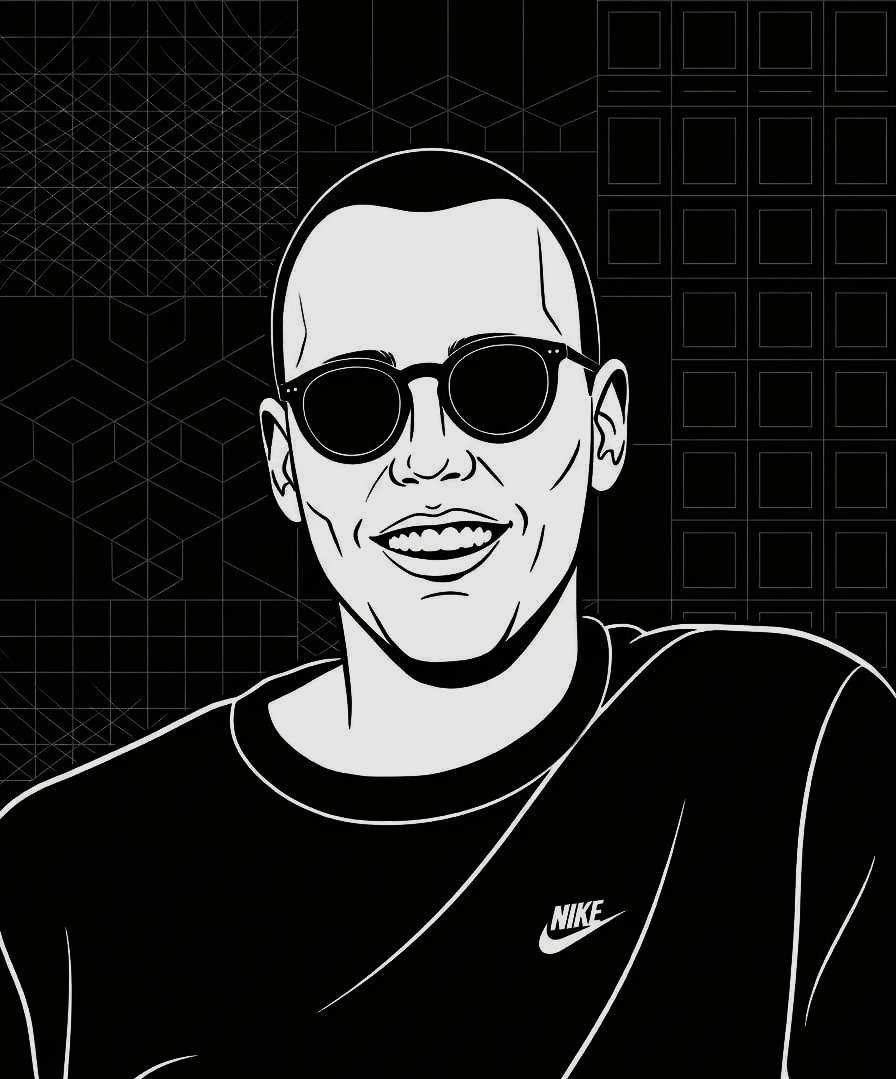
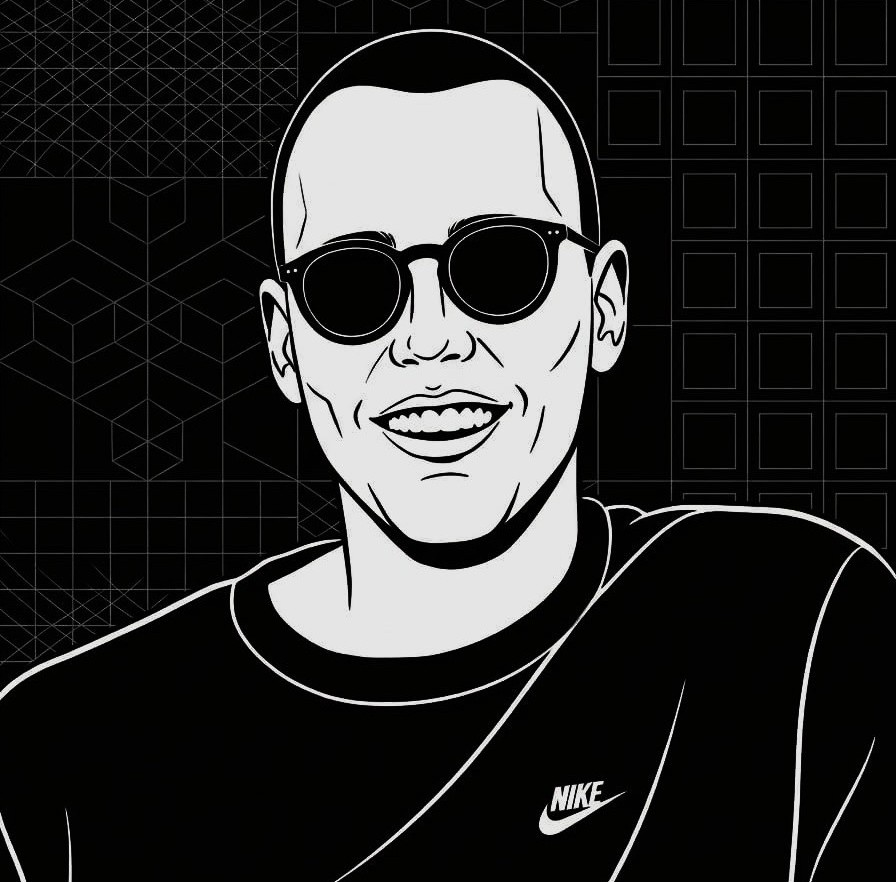
Dovršavanje header  i pravljenje mein sekcije sa logom i glavnim naslovom

diff --git a/index.html b/index.html
@@ -16,12 +16,33 @@
         <img class="logo" src="img/logo 1.jpg" alt="" />
         <nav class="navigation">
           <ul class="nav-list">
-            <li class="list">Projects</li>
-            <li class="list">About me</li>
-            <li class="list">Contact</li>
+            <li class="list projects">Projects</li>
+            <li class="list abaut">About me</li>
+            <li class="list contact">Contact</li>
           </ul>
         </nav>
       </div>
     </header>
+
+    <main class="main">
+      <div class="conteiner">
+        <div class="mein-div">
+          <p class="name">Antonijo Ćumurdžić</p>
+          <h1 class="main-title">
+            Front-end developer focused on building clean, modern, and
+            interactive user interfaces
+          </h1>
+          <p class="mein-text">
+            I’m a passionate front-end developer who loves playing with web
+            design to create clean and user-friendly layouts. I believe in
+            keeping things simple, intuitive, and highly functional, making sure
+            my projects are just as beautiful as they are easy to use.
+          </p>
+          <a class="btn-contact" href="#">Contact me</a>
+          <a class="btn-projects" href="">View projects</a>
+        </div>
+        <div class="img"></div>
+      </div>
+    </main>
   </body>
 </html>

diff --git a/stayls.css b/stayls.css
@@ -19,17 +19,70 @@ body {
   display: flex;
   align-items: center;
   justify-content: space-between;
-  padding: 2rem 4rem;
+  padding: 1rem;
   list-style: none;
+  margin-top: 1rem;
+  margin-bottom: 1rem;
 }
 .nav-list {
   display: flex;
+  align-items: center;
   gap: 11.2rem;
   color: white;
   font-weight: bold;
-  font-size: 1.8rem;
+  font-size: 1.6rem;
   list-style: none;
+}
+
+.contact {
+  box-shadow: 0px 5px 10px -2px rgba(255, 255, 255, 0.2);
+  border-radius: 1.2rem;
+  background-color: #4e4d4d;
+  padding: 0.5rem 1.6rem;
 }
 .logo {
   width: 10rem;
+}
+
+.conteiner {
+  display: grid;
+  grid-template-columns: 1fr 1fr;
+  gap: 8rem;
+}
+
+.mein-div {
+  color: white;
+  display: flex;
+  flex-direction: column;
+  align-items: flex-start;
+  justify-content: center;
+  margin: 0 auto;
+}
+
+.img {
+  width: 100%;
+  max-width: 50rem;
+  height: 46rem;
+  background-image: url(img/Osobnaslika90.jpg);
+  background-size: cover;
+  background-position: center;
+  box-shadow: inset 0 0 8rem 2.4rem black;
+}
+
+.name {
+  font-weight: 600;
+  font-size: 1.8rem;
+  margin-bottom: 1.8rem;
+}
+
+.main-title {
+  font-weight: bold;
+  font-size: 4.8rem;
+  line-height: 5rem;
+  margin-bottom: 3.8rem;
+}
+
+.mein-text {
+  padding-right: 5rem;
+  font-size: 1.4rem;
 }
